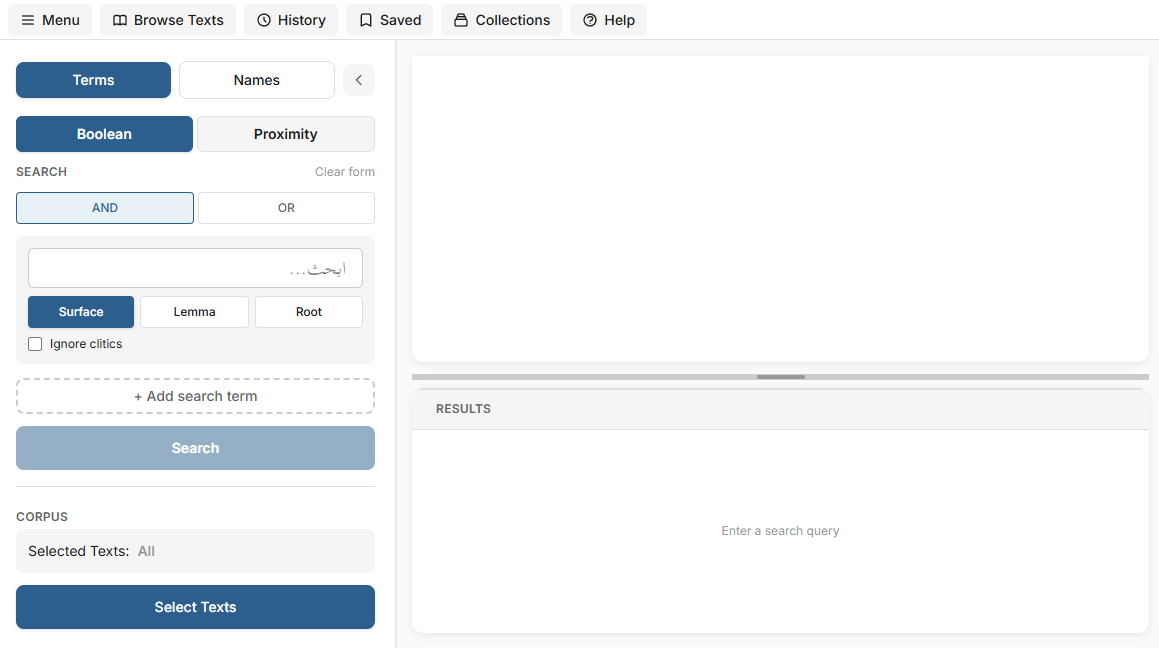
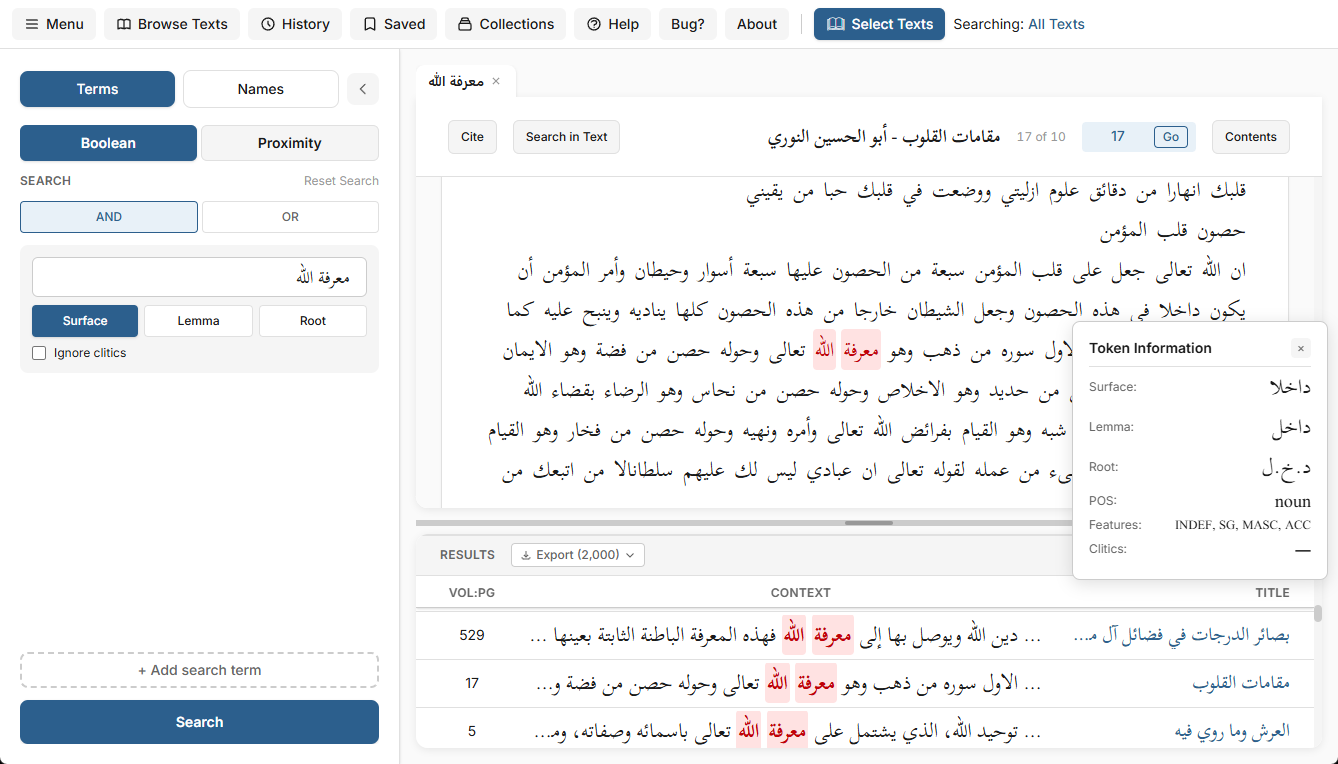
screenshot updates

diff --git a/src/pages/Features.tsx b/src/pages/Features.tsx
@@ -3,7 +3,7 @@ import Lightbox, { type LightboxImage } from '../components/Lightbox';
 
 /** The screenshots on this page, in order, for the lightbox. */
 const SHOTS: LightboxImage[] = [
-  { src: '/screenshots/lemma-phrase.png', alt: 'Lemma phrase search', caption: 'Lemma phrase search for ولي الله, which matches both ولي الله, أولياء الله, وليُّكم الله, etc.' },
+  { src: '/screenshots/lemma-phrase.png', alt: 'Lemma phrase search', caption: 'Lemma phrase search for ولي الله, which matches ولي الله, أولياء الله, وليُّكم الله, etc.' },
   { src: '/screenshots/cross-page.png', alt: 'A phrase found across two pages', caption: 'The phrase "عند قبر سري السقطي" is split across two pages, but is identified.' },
   { src: '/screenshots/name-search.png', alt: 'Name search', caption: 'Specialized name search' },
   { src: '/screenshots/proximity-search.png', alt: 'Proximity search results', caption: 'Proximity search between a root (عرف) and a term (الله)' },
@@ -21,7 +21,7 @@ const Features = () => {
         <div className="screenshot-window">
           <img src="/screenshots/lemma-phrase.png" alt="Lemma phrase search" className="zoomable" onClick={() => setOpen(0)} />
         </div>
-        <p className="screenshot-caption">Lemma phrase search for ولي الله, which matches both ولي الله, أولياء الله, وليُّكم الله, etc.</p>
+        <p className="screenshot-caption">Lemma phrase search for ولي الله, which matches  ولي الله، أولياء الله، وليُّكم الله, etc.</p>
       </div>
       <div className="features-grid">
         <div className="feature-card">

diff --git a/src/components/Header.tsx b/src/components/Header.tsx
@@ -15,8 +15,8 @@ const Header = () => {
           <ul>
             <li><Link to="/" className={isActive('/') ? 'active' : ''}>Home</Link></li>
             <li><Link to="/features" className={isActive('/features') ? 'active' : ''}>Features</Link></li>
-            <li><Link to="/docs" className={isActive('/docs') ? 'active' : ''}>Docs</Link></li>
             <li><Link to="/about" className={isActive('/about') ? 'active' : ''}>About</Link></li>
+            <li><Link to="/docs" className={isActive('/docs') ? 'active' : ''}>Docs</Link></li>
             {/* <li><Link to="/corpus" className={isActive('/corpus') ? 'active' : ''}>Browse Corpus</Link></li> */}
           </ul>
         </nav>

diff --git a/src/pages/Home.tsx b/src/pages/Home.tsx
@@ -23,7 +23,7 @@ const Home = () => {
 
       <div className="status-note">
         <p>
-          al-Kashshāf is currently in private testing with a public release soon. If you would like to receive updates, enter your email below!
+          al-Kashshāf is currently in private testing with a public release soon. To receive updates, enter your email below!
         </p>
         <SignupForm />
       </div>

diff --git a/src/pages/About.tsx b/src/pages/About.tsx
@@ -229,7 +229,7 @@ const About = () => {
 
         <h3>Privacy</h3>
         <p>
-          The application sends nothing, ever, unless you press its bug report button.
+          The application sends nothing (unless you submit a bug report) and does not collect any personal data.
         </p>
 
         <h3>Contact</h3>
